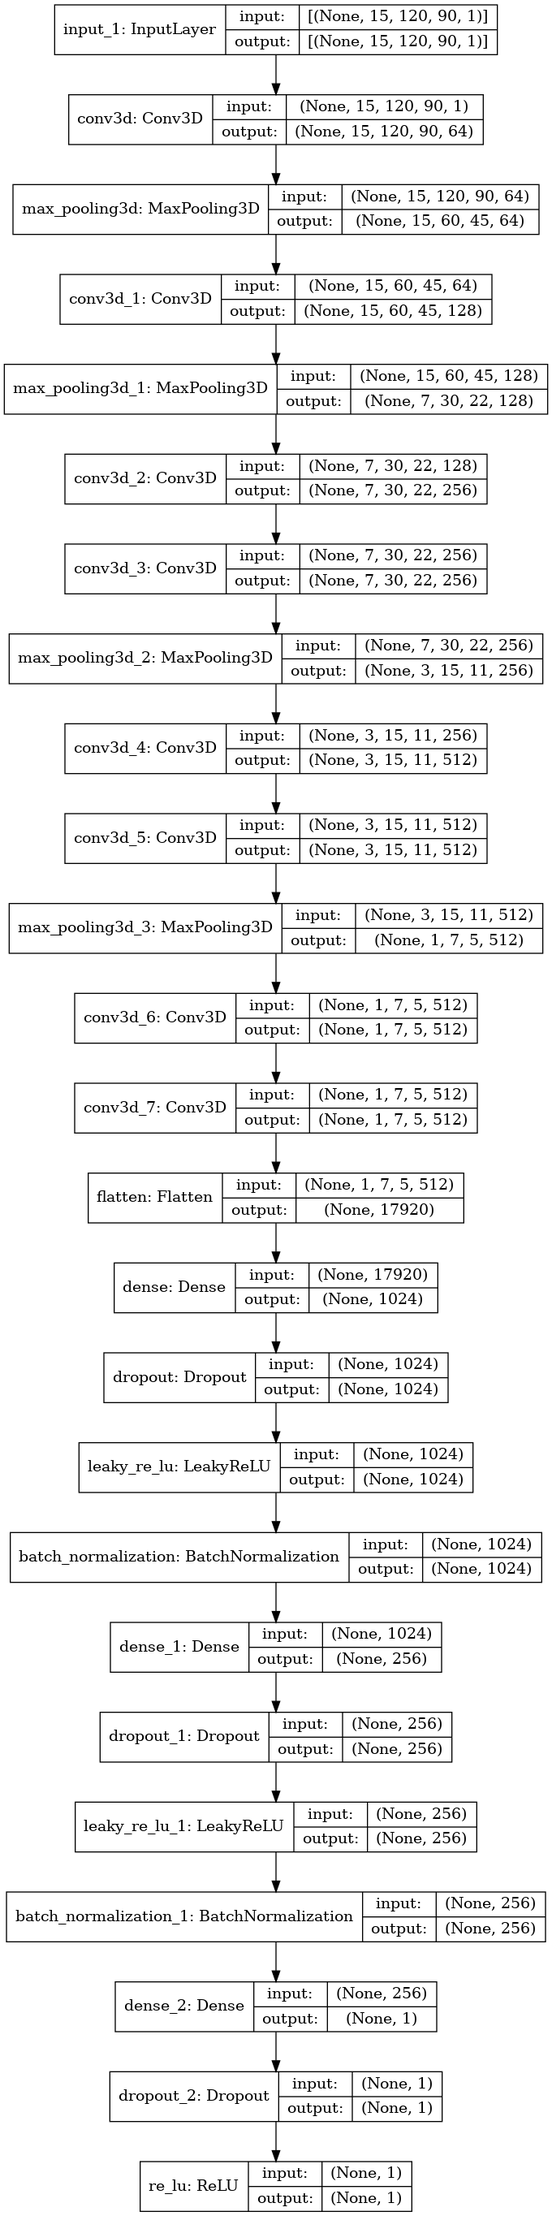
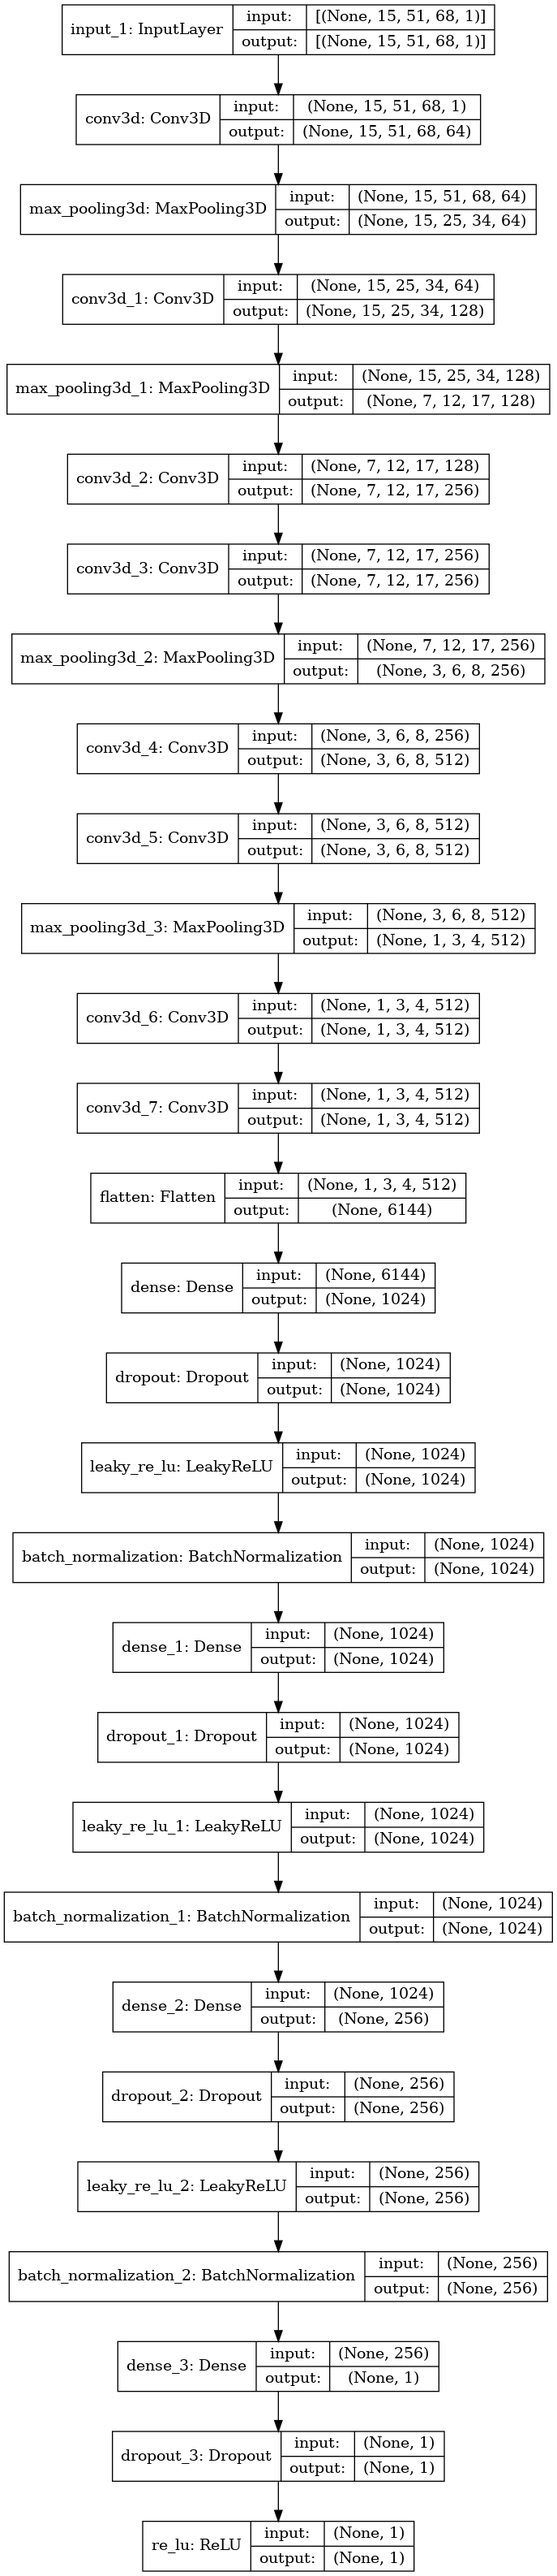
lowest val loss of 40

Changed region(s): [[0.0, 0.0, 1.0, 1.0], [0.0309, 0.6852, 0.0926, 0.7475], [0.0618, 0.4049, 0.0926, 0.4361]]

diff --git a/car_speed_prediction/model.py b/car_speed_prediction/model.py
@@ -1,11 +1,18 @@
 '''
-Model architecure inspired from: https://arxiv.org/pdf/1412.0767.pdf
+Model architecture inspired from: https://arxiv.org/pdf/1412.0767.pdf
 '''
 
 import tensorflow as tf
 from tensorflow.keras.layers import *
 import numpy as np
 import constants as ct
+
+from tensorflow.compat.v1 import ConfigProto
+from tensorflow.compat.v1 import InteractiveSession
+
+# physical_devices = tf.config.experimental.list_physical_devices('GPU')
+# assert len(physical_devices) > 0, "Not enough GPU hardware devices available"
+# config = tf.config.experimental.set_memory_growth(physical_devices[0], True)
 
 '''
 TODO: Currently not using OpFlow
@@ -23,7 +30,7 @@ ds = tf.keras.preprocessing.timeseries_dataset_from_array(
     sampling_rate=1,
     sequence_stride=1,
     shuffle=True,
-    batch_size=32
+    batch_size=8
 )
 # ds.shuffle(len(frames))
 validation_set_size = round(ds.__len__().numpy() * 0.1)
@@ -49,7 +56,7 @@ def augmentation(inputs):
     return x
 
 def model():
-    inputs = tf.keras.Input((ct.TIMESTEPS,) + (ct.IMG_SIZE))
+    inputs = tf.keras.Input((ct.TIMESTEPS,) + (ct.IMG_SIZE[1], ct.IMG_SIZE[0], ct.IMG_SIZE[2],))
     x = Conv3D(64, (3, 3, 3),  activation='relu', padding='same')(inputs)
     x = MaxPooling3D(pool_size=(1, 2, 2), strides=(1, 2, 2), padding='valid')(x)
 
@@ -75,6 +82,12 @@ def model():
     x = LeakyReLU()(x)
     x = BatchNormalization()(x)
 
+    x = Dense(1024)(x)
+    x = Dropout(0.5)(x)
+    x = LeakyReLU()(x)
+    x = BatchNormalization()(x)
+
+
     x = Dense(256)(x)
     x = Dropout(0.5)(x)
     x = LeakyReLU()(x)
@@ -84,13 +97,16 @@ def model():
     x = Dropout(0.5)(x)
     outputs = ReLU()(x)
 
-    return tf.keras.Model(inputs, outputs, name="Decoder")
+    return tf.keras.Model(inputs, outputs, name="c3d_model")
 
 c3d_model = model()
+# optimized
 sgd = tf.keras.optimizers.SGD(lr=1e-5, decay=0.0005, momentum=0.9)
+# fast
+adam = tf.keras.optimizers.Adam(lr=1e-3)
 
 c3d_model.compile(
-    optimizer=sgd,
+    optimizer=adam,
     loss="mse")
 
 print(c3d_model.summary())
@@ -102,38 +118,22 @@ tf.keras.utils.plot_model(
     expand_nested=True
 )
 
-# tf.keras.utils.plot_model(
-#     lrcn_model,
-#     to_file="architecture_model.png",
-#     show_shapes=True)
-#
-# earlystopping_callback = tf.keras.callbacks.EarlyStopping(
-#     monitor='val_loss', patience=7, restore_best_weights=True)
-#
-# lrcn_model.fit(
-#     x=train_ds,
-#     epochs=30,
-#     validation_data=validation_ds,
+earlystopping_callback = tf.keras.callbacks.EarlyStopping(
+    monitor='val_loss', patience=4, restore_best_weights=True)
 
-#
-# lrcn_model.compile(
-#     optimizer=tf.keras.optimizers.Adam(
-#         learning_rate=1e-4),
-#     loss="mse")
-# print(lrcn_model.summary())
-#
-# tf.keras.utils.plot_model(
-#     lrcn_model,
-#     to_file="architecture_model.png",
-#     show_shapes=True)
-#
-# earlystopping_callback = tf.keras.callbacks.EarlyStopping(
-#     monitor='val_loss', patience=7, restore_best_weights=True)
-#
-# lrcn_model.fit(
-#     x=train_ds,
-#     epochs=30,
-#     validation_data=validation_ds,
-#     callbacks=[earlystopping_callback])
-#
-# lrcn_model.save(ct.model_path)
+checkpoint_filepath = '/tmp/checkpoint'
+model_checkpoint_callback = tf.keras.callbacks.ModelCheckpoint(
+        filepath=checkpoint_filepath,
+        save_weights_only=False,
+        monitor='val_accuracy',
+        mode='max',
+        save_best_only=True)
+
+# TODO: very temporarily using validation set as train
+c3d_model.fit(
+    x=train_ds,
+    epochs=30,
+    validation_data=validation_ds, callbacks=[earlystopping_callback, model_checkpoint_callback])
+
+
+c3d_model.save(ct.MODEL_PATH)

diff --git a/car_speed_prediction/constants.py b/car_speed_prediction/constants.py
@@ -1,3 +1,3 @@
-IMG_SIZE = (480 // 4, 360 // 4, 1)
-MODEL_PATH = "models/lrcn_speed_predictor.h5"
+IMG_SIZE = (480 // 7, 360 // 7, 1)
+MODEL_PATH = "models/c3d_speed_predictor.h5"
 TIMESTEPS = 15
